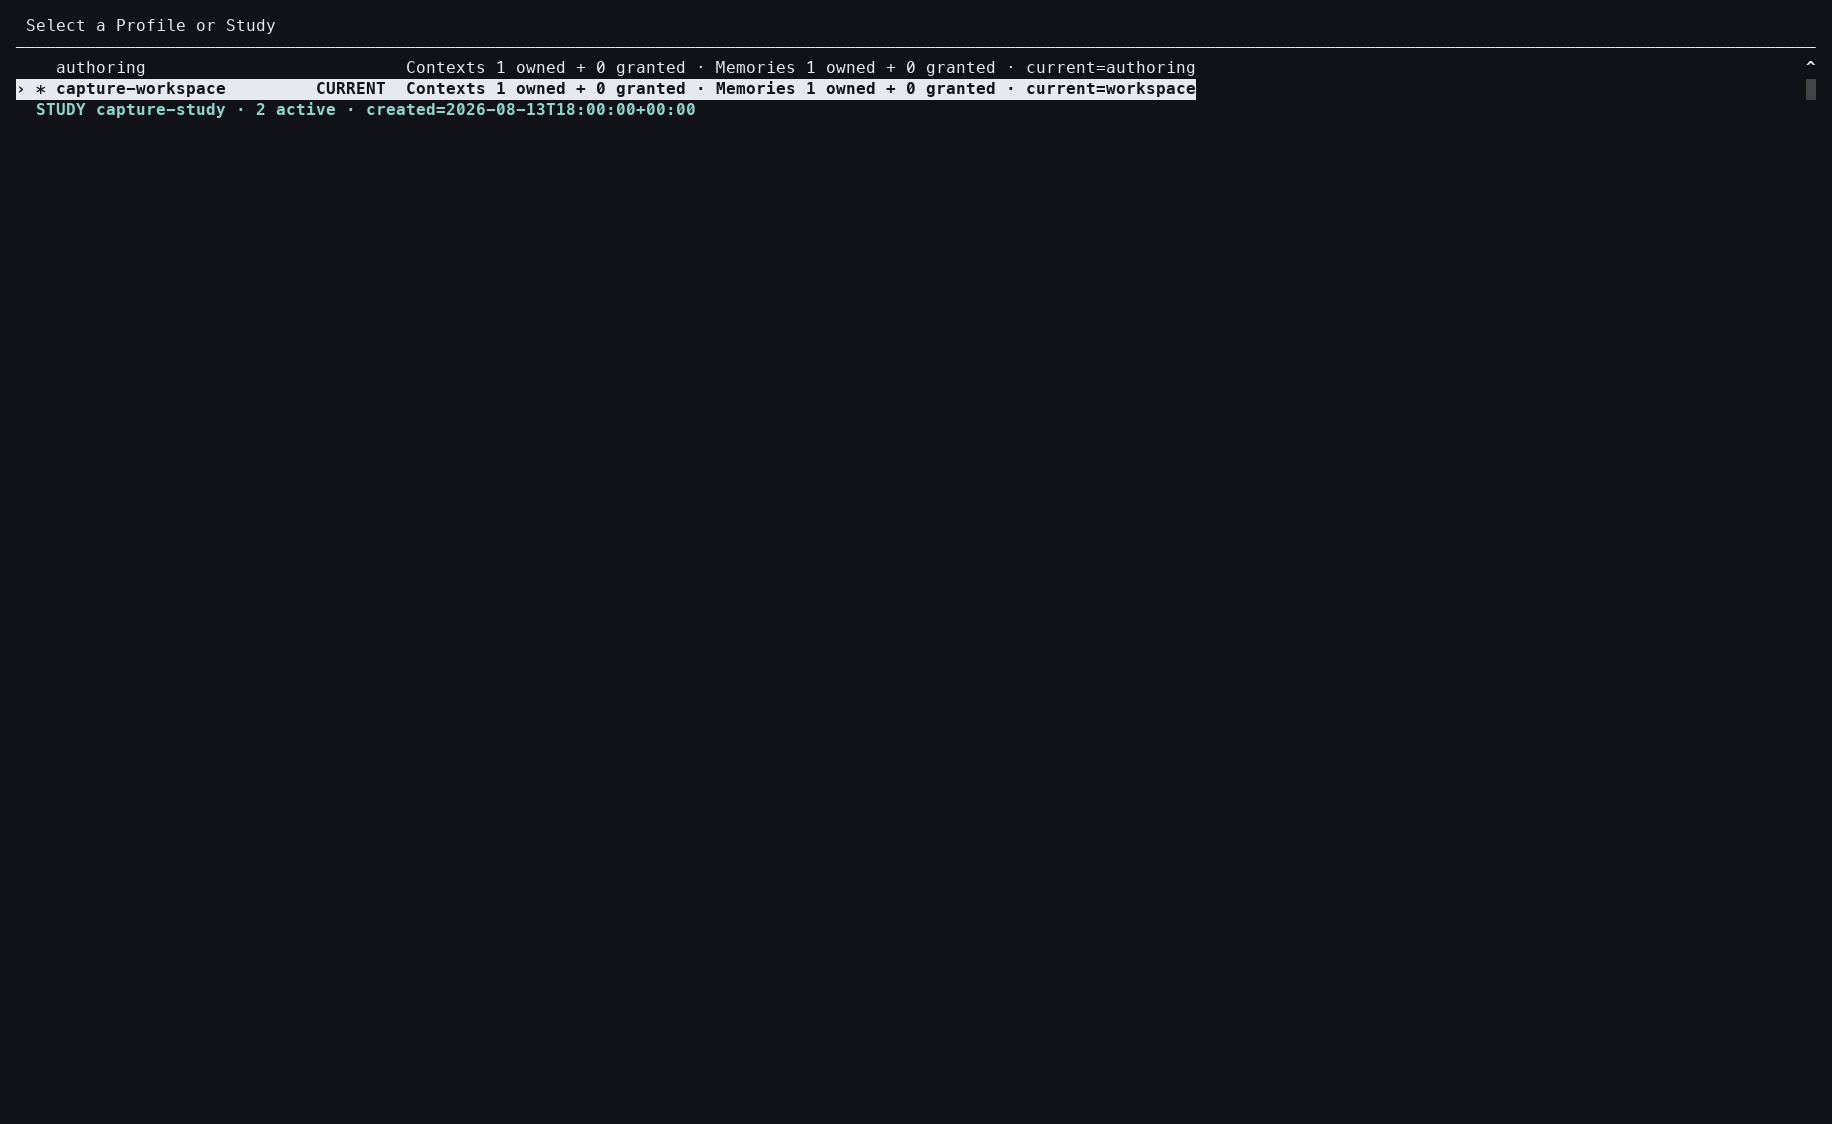
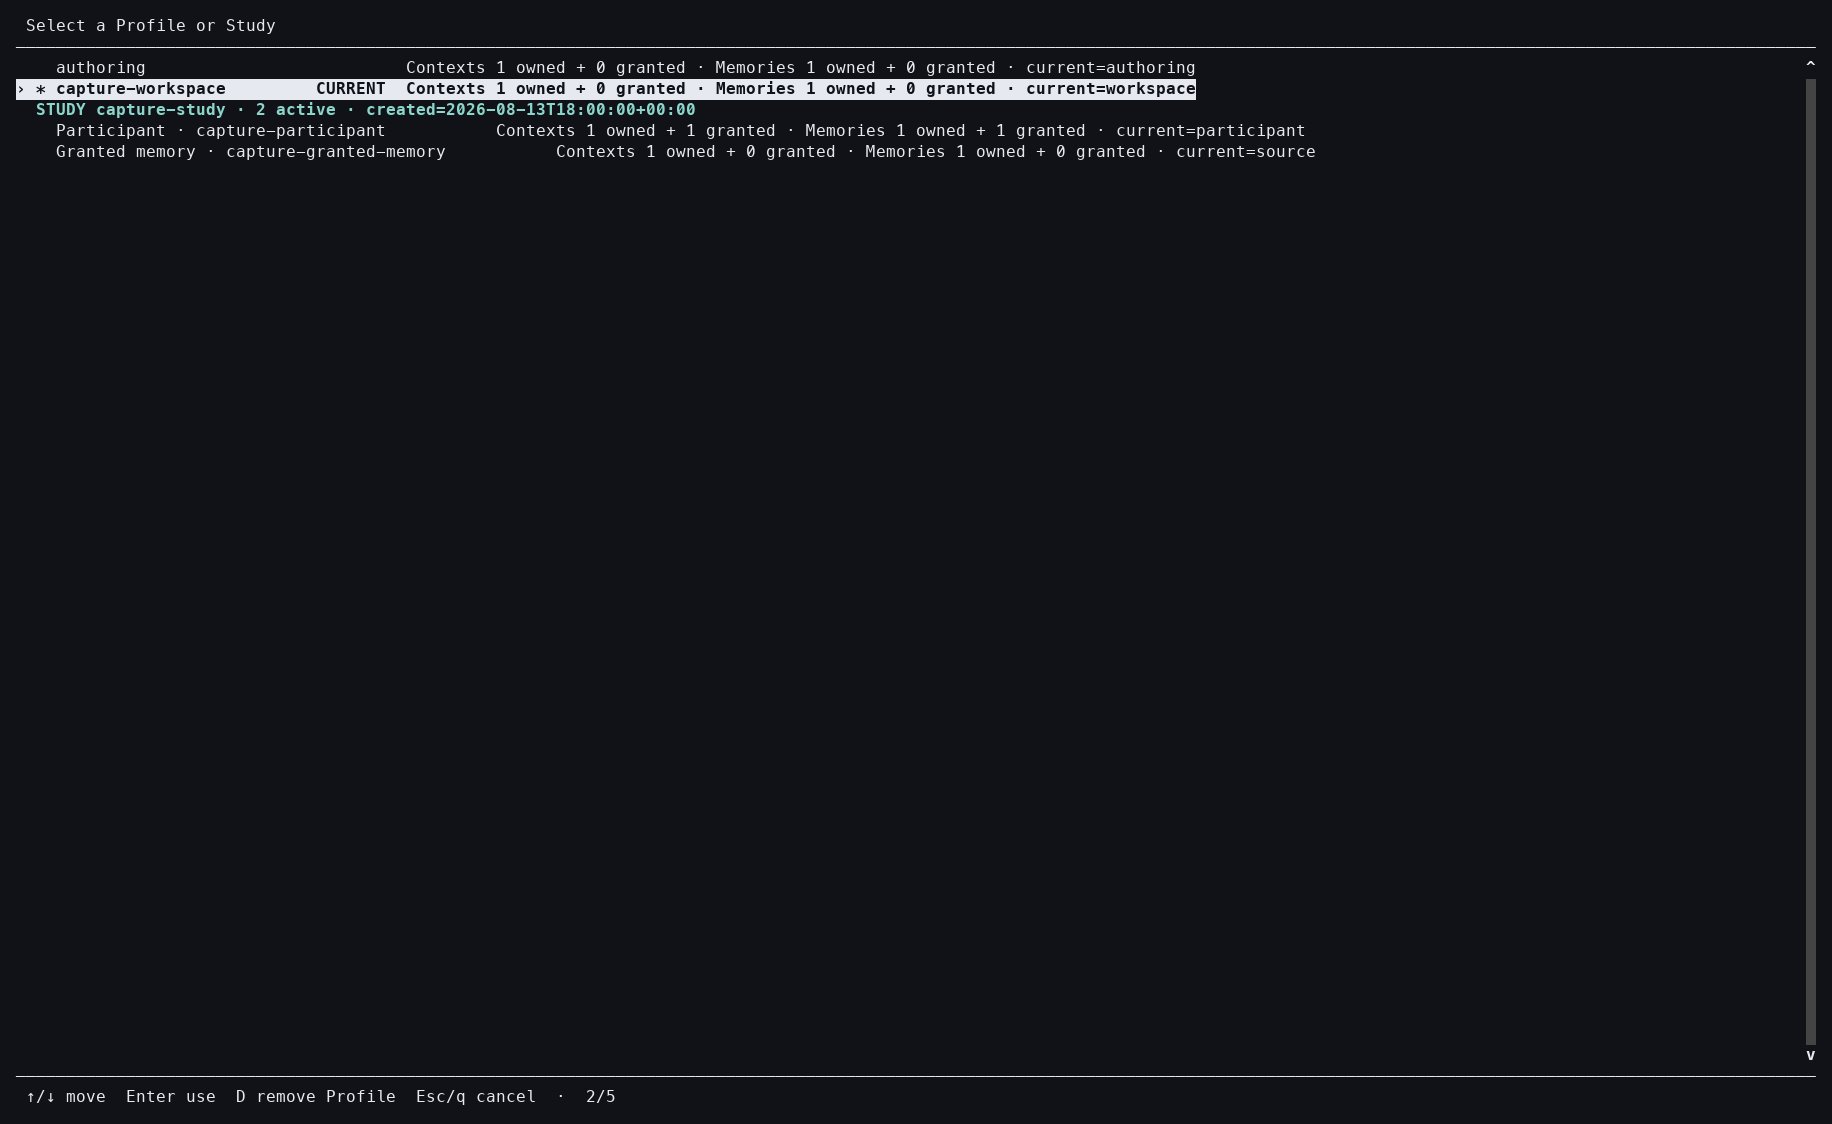
Keep Profile deletion focus nearby
Reloading the Profile selector after deletion previously reapplied its default CURRENT focus, forcing repeated cleanup to restart from an unrelated row.

Carry only the reviewed row's visual index across the post-delete catalog refresh. The same index selects the next surviving row; clamping selects the preceding row when the removed target was last. This preserves local orientation without reusing a deleted UID, stale row, or frozen registry generation.

Add picker and selector integration coverage, and refresh the ordered 180x52 PTY evidence so child removal proves that the surviving Study sibling owns focus at the deleted row's former position.

diff --git a/memcommit/commands/profile_picker.py b/memcommit/commands/profile_picker.py
@@ -72,6 +72,7 @@ class ProfilePickerRefresh:
     status: str
     error: Exception | None = None
     close_requested: bool = False
+    preferred_row_index: int | None = None
 
 
 @dataclass(frozen=True)
@@ -372,6 +373,7 @@ def choose_profile(
     current: str,
     registry_generation: int | None = None,
     initial_status: str = "",
+    initial_row_index: int | None = None,
     apply_removal: Callable[[ProfilePickerAction], str] | None = None,
     app_input: Input | None = None,
     app_output: Output | None = None,
@@ -382,6 +384,12 @@ def choose_profile(
     options = _validate_entries(entries, current=current)
     if not isinstance(initial_status, str):
         raise ValueError("Profile selection status must be text.")
+    if initial_row_index is not None and (
+        not isinstance(initial_row_index, int)
+        or isinstance(initial_row_index, bool)
+        or initial_row_index < 0
+    ):
+        raise ValueError("Profile selection row must be a nonnegative integer.")
     if apply_removal is not None and not callable(apply_removal):
         raise ValueError("Profile removal handler must be callable.")
     rows = _picker_rows(options, current=current)
@@ -391,11 +399,18 @@ def choose_profile(
             "Pass a profile name explicitly."
         )
 
+    current_index = next(
+        index
+        for index, row in enumerate(rows)
+        if row.kind == "PROFILE" and row.name == current
+    )
     selected = {
-        "index": next(
-            index
-            for index, row in enumerate(rows)
-            if row.kind == "PROFILE" and row.name == current
+        # The same visual position resolves to the next surviving row after a
+        # deletion, or the preceding row when the removed target was last.
+        "index": (
+            min(initial_row_index, len(rows) - 1)
+            if initial_row_index is not None
+            else current_index
         )
     }
     pending: dict[str, object | None] = {"action": None, "review": None}
@@ -499,6 +514,7 @@ def choose_profile(
     def _apply_reviewed_removal(event) -> None:
         action = pending["action"]
         assert isinstance(action, ProfilePickerAction)
+        reviewed_row_index = selected["index"]
         if apply_removal is None:
             event.app.exit(result=action)
             return
@@ -507,12 +523,16 @@ def choose_profile(
             return apply_removal(action)
 
         def on_success(message: str) -> None:
-            background_result["value"] = ProfilePickerRefresh(status=message)
+            background_result["value"] = ProfilePickerRefresh(
+                status=message,
+                preferred_row_index=reviewed_row_index,
+            )
 
         def on_error(error: Exception) -> None:
             background_result["value"] = ProfilePickerRefresh(
                 status="",
                 error=error,
+                preferred_row_index=reviewed_row_index,
             )
 
         def finish(*, close_requested: bool) -> None:
@@ -527,6 +547,7 @@ def choose_profile(
                     status=result.status,
                     error=result.error,
                     close_requested=close_requested,
+                    preferred_row_index=result.preferred_row_index,
                 )
             )
 

diff --git a/tests/test_profile_removal.py b/tests/test_profile_removal.py
@@ -341,6 +341,7 @@ def test_interactive_removal_reloads_and_stays_in_profile_selector(
         current,
         registry_generation,
         initial_status="",
+        initial_row_index=None,
         apply_removal=None,
     ):
         assert callable(apply_removal)
@@ -350,14 +351,20 @@ def test_interactive_removal_reloads_and_stays_in_profile_selector(
                 "current": current,
                 "generation": registry_generation,
                 "status": initial_status,
+                "row_index": initial_row_index,
             }
         )
         if len(calls) == 1:
-            return ProfilePickerAction(
+            action = ProfilePickerAction(
                 kind="REMOVE_PROFILE",
                 name=authority.name,
                 uid=authority.uid,
                 registry_generation=registry_generation,
+            )
+            status = apply_removal(action)
+            return profile_command.ProfilePickerRefresh(
+                status=status,
+                preferred_row_index=3,
             )
         return None
 
@@ -375,6 +382,8 @@ def test_interactive_removal_reloads_and_stays_in_profile_selector(
         ("authoring", participant.name),
     ]
     assert calls[1]["generation"] == calls[0]["generation"] + 1
+    assert calls[0]["row_index"] is None
+    assert calls[1]["row_index"] == 3
     assert "Deleted Profile 'removal-authority' permanently" in calls[1]["status"]
     assert "store/checkpoints deleted" in calls[1]["status"]
     assert "Profile selection cancelled." not in result.output

diff --git a/memcommit/commands/profile.py b/memcommit/commands/profile.py
@@ -201,6 +201,7 @@ def _print_grant(registry, grant, *, prefix: str = "") -> None:
 def _pick_profile(
     *,
     initial_status: str = "",
+    initial_row_index: int | None = None,
     apply_removal: Callable[[ProfilePickerAction], str] | None = None,
 ) -> ProfilePickerAction | ProfilePickerRefresh | None:
     registry, inspections = _profile_rows()
@@ -274,6 +275,8 @@ def _pick_profile(
         )
         if apply_removal is not None:
             picker_kwargs["apply_removal"] = apply_removal
+        if initial_row_index is not None:
+            picker_kwargs["initial_row_index"] = initial_row_index
         selected = choose_profile(
             entries,
             current=registry.active.name,
@@ -406,10 +409,12 @@ def _run_profile_selector() -> None:
     """Keep the selector open after deletion and reload its frozen catalog."""
 
     status = ""
+    preferred_row_index: int | None = None
     completed_removal = False
     while True:
         action = _pick_profile(
             initial_status=status,
+            initial_row_index=preferred_row_index,
             apply_removal=lambda reviewed: (
                 _apply_profile_picker_action(
                     reviewed,
@@ -427,6 +432,7 @@ def _run_profile_selector() -> None:
             if action.error is not None:
                 _fail(action.error)
             status = action.status
+            preferred_row_index = action.preferred_row_index
             completed_removal = True
             if action.close_requested:
                 return

diff --git a/tests/test_profile_picker.py b/tests/test_profile_picker.py
@@ -466,7 +466,45 @@ def test_profile_picker_deletion_cycles_every_shared_busy_frame(monkeypatch):
     assert feeder_errors == []
     assert not feeder.is_alive()
     assert rendered_frames == {".", "..", "…"}
-    assert selected == ProfilePickerRefresh(status="Deletion completed")
+    assert selected == ProfilePickerRefresh(
+        status="Deletion completed",
+        preferred_row_index=1,
+    )
+
+
+def test_profile_picker_initial_row_uses_nearest_surviving_visual_position():
+    entries = (
+        ENTRIES[0],
+        ProfilePickerEntry(
+            name="pilot-participant",
+            uid="participant-uid",
+            context_count=2,
+            current_context="practice",
+            study_uid="study-uid",
+            study_name="pilot",
+            study_created_at="2026-08-13T10:00:00+00:00",
+            study_role="PARTICIPANT",
+            study_profile_count=2,
+        ),
+    )
+
+    with create_pipe_input() as pipe_input:
+        pipe_input.send_text("\r")
+        selected = choose_profile(
+            entries,
+            current="authoring",
+            initial_row_index=99,
+            app_input=pipe_input,
+            app_output=DummyOutput(),
+            require_tty=False,
+        )
+
+    assert selected == ProfilePickerAction(
+        kind="USE",
+        name="pilot-participant",
+        uid="participant-uid",
+        registry_generation=None,
+    )
 
 
 def test_profile_picker_review_warns_that_store_and_checkpoints_are_unrecoverable():

diff --git a/docs/screenshots/profile-soft-removal-20260813/capture_profile_soft_removal.py b/docs/screenshots/profile-soft-removal-20260813/capture_profile_soft_removal.py
@@ -330,6 +330,7 @@ def _capture_profile_path(home: Path) -> None:
         "Select a Profile or Study",
         "Deleted Profile 'capture-participant' permanently",
         "store/checkpoints deleted",
+        "›   Granted memory · capture-granted-memory",
     )
     if not child.isalive():
         raise RuntimeError("Profile removal exited instead of reopening the selector.")

diff --git a/docs/screenshots/profile-soft-removal-20260813/README.md b/docs/screenshots/profile-soft-removal-20260813/README.md
@@ -40,13 +40,13 @@ to show the shared `.`, `..`, `…` cadence before the refreshed selector.
 | `02-study-header-target` | same | `Down` | `STUDY capture-study` owns focus; footer says `D remove Study` | None |
 | `03-study-exact-removal-review` | same | `D` | Exact `mem profile remove-study capture-study --force`; Memories, sessions, checkpoints, and connected Grants are listed as unrecoverable deletions | None |
 | `04-study-deletion-in-progress` | same | `Enter`; shared cadence reaches `…` | Reviewed Study remains frozen while header and footer show permanent store/checkpoint deletion in progress | Deletion running; no second action accepted |
-| `05-study-removal-receipt` | same | background deletion completes | Refreshed selector stays open; Study rows are gone and a green permanent-deletion receipt is visible | Both Study UID paths destroyed; both identity tombstones published; incident Grant removed |
+| `05-study-removal-receipt` | same | background deletion completes | Refreshed selector stays open; the removed last group resolves to its preceding workspace row and a green permanent-deletion receipt is visible | Both Study UID paths destroyed; both identity tombstones published; incident Grant removed |
 | `06-study-read-only-verification` | `mem profile list` equivalent | `q`, then read-only command | Only authoring/workspace remain visible; two deletion tombstones reported | None; read-only |
 | `07-fixed-authoring-removal-blocked` | `mem profile` equivalent | `Up`, `D` | Fixed authoring row refuses deletion before review | None |
 | `08-profile-child-target` | same | `Down` × 3 | Participant child owns focus; footer says `D remove Profile` | None |
 | `09-profile-exact-removal-review` | same | `D` | Exact `mem profile remove capture-participant --force`; permanent store/checkpoint deletion warning; sibling Study row retained | None |
 | `10-profile-deletion-in-progress` | same | `A`; shared cadence reaches `…` | Reviewed child remains frozen while header and footer show permanent store/checkpoint deletion in progress | Deletion running; no second action accepted |
-| `11-profile-removal-receipt` | same | background deletion completes | Refreshed selector stays open with the sibling Study child, `1 removed`, and a green permanent-deletion receipt | Participant UID path destroyed; identity tombstone published; incident Grant removed; sibling store retained |
+| `11-profile-removal-receipt` | same | background deletion completes | Refreshed selector stays open with the surviving Study sibling focused at the removed child's former row, `1 removed`, and a green receipt | Participant UID path destroyed; identity tombstone published; incident Grant removed; sibling store retained |
 | `12-profile-read-only-verification` | `mem profile list` equivalent | `q`, then read-only command | Study header remains with granted-memory child and `1 removed` annotation | None; read-only |
 | `13-active-profile-removal-blocked` | `mem profile` equivalent | `D` on current participant | Current Profile refuses deletion and instructs a prior switch | None |
 | `14-active-study-removal-blocked` | same | `Up`, `D` | Parent Study refuses deletion because it contains current Profile | None |

diff --git a/README.md b/README.md
@@ -282,8 +282,10 @@ Press `D` on a Study heading to review whole-Study removal, or on a child row to
 review only that Profile. `Enter` or `A` applies the exact displayed command
 after the irreversible-deletion warning. After deletion, the refreshed
 selector stays open with a success receipt so more old Profiles can be removed
-without restarting `mem profile`. While deletion runs, `.`, `..`, `…` shows
-that the approved store/checkpoint cleanup is still active. Direct CLI commands
+without restarting `mem profile`. Its cursor stays at the deleted row's visual
+position, which selects the next surviving row or the row immediately above
+when the target was last. While deletion runs, `.`, `..`, `…` shows that the
+approved store/checkpoint cleanup is still active. Direct CLI commands
 show the same transient cadence in a TTY while remaining stable and silent when
 redirected, then exit after their one-shot receipt. The active, fixed
 `authoring`, and fixed `study-baseline` Profiles cannot be removed. Stable UID

diff --git a/docs/profile-removal-design-rationale.md b/docs/profile-removal-design-rationale.md
@@ -27,6 +27,10 @@ which it could restore the content.
 - A successful deletion returns to the refreshed Profile selector with a green
   in-selector receipt. It does not exit `mem profile`. Each subsequent deletion
   starts from a newly loaded registry generation and visible Profile catalog.
+- The refreshed selector reuses the reviewed row's visual index rather than
+  resetting to `CURRENT`. The same index names the next surviving row after
+  deletion; if the target was last, clamping selects the row immediately above.
+  This positional hint never reuses the deleted UID or stale catalog entry.
 - While recursive deletion is running, the frozen review remains visible and
   the shared `.`, `..`, `…` busy cadence appears in the header and footer.
   Deletion runs in the shared non-cancellable background executor so the TUI
